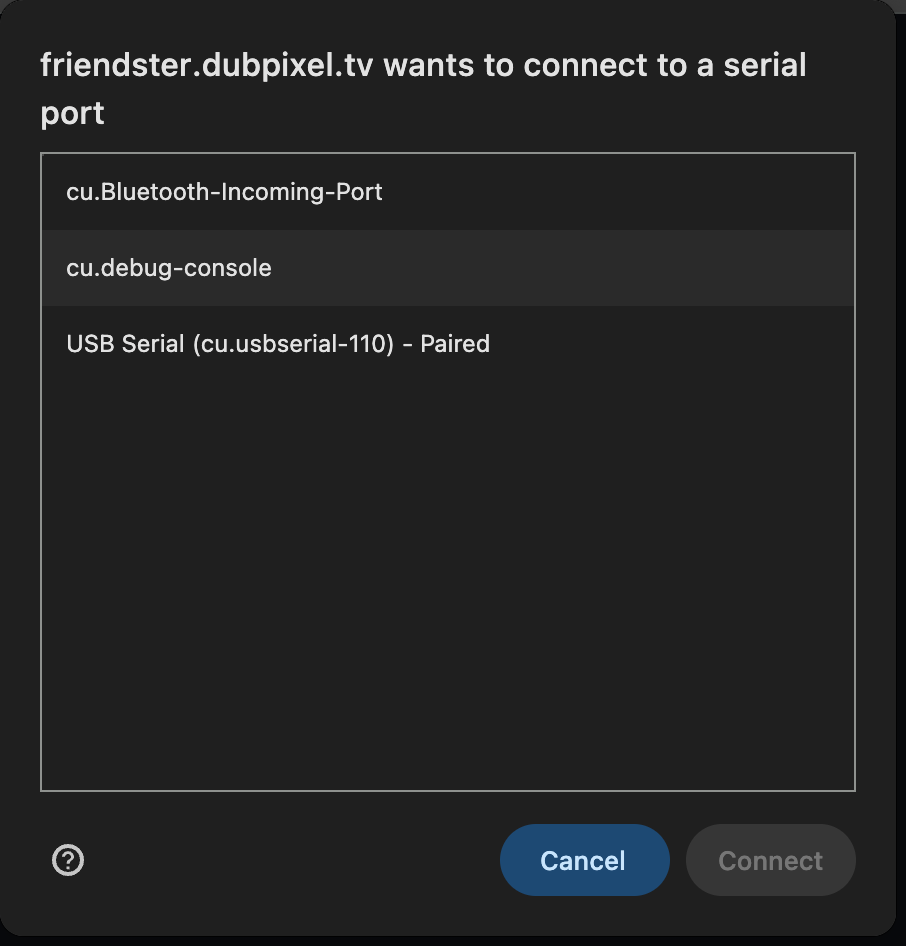
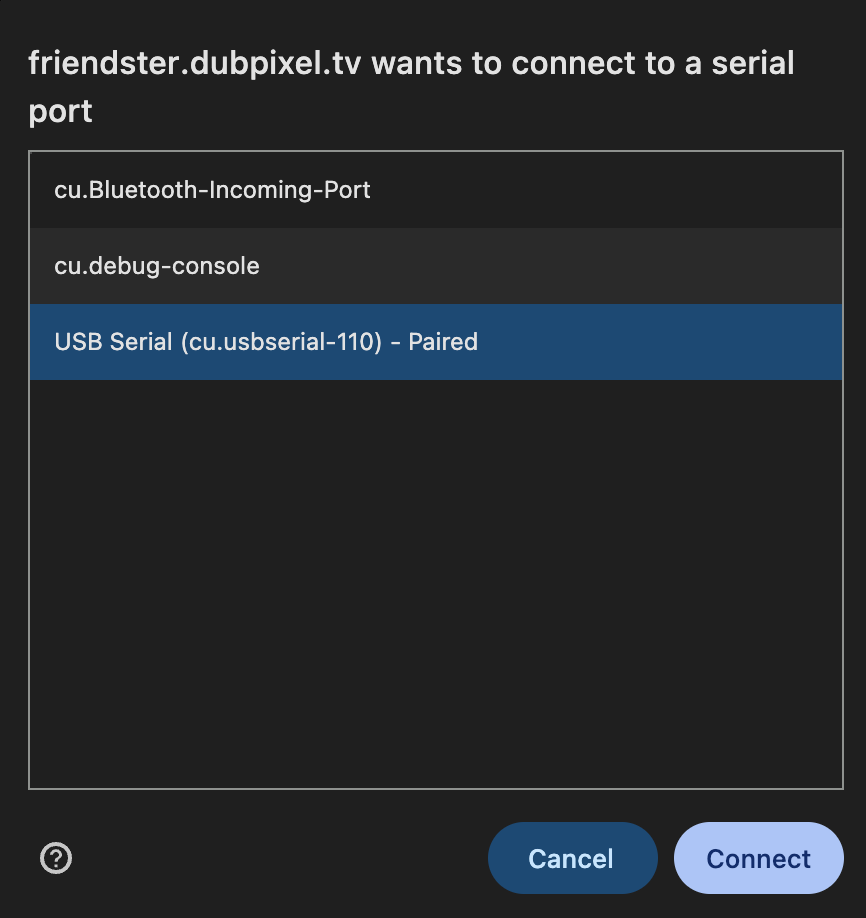
docs(site): swap in updated, clearer serial-port-picker screenshot
New version highlights the correct "USB Serial (Paired)" entry with an
active blue Connect button, instead of a neutral/ambiguous list.

Claude-Session: https://claude.ai/code/session_015Y2pN9hmXmszGHiTwhFz2u

Changed region(s): [[0.0312, 0.0305, 0.9977, 0.976], [0.0312, 0.8845, 0.0935, 0.9455], [0.9665, 0.0, 1.0, 0.0305]]

diff --git a/site/flash/visual/index.html b/site/flash/visual/index.html
@@ -210,7 +210,7 @@
       <div class="step-body">
         <h2>Pick the serial port</h2>
         <p>Your browser will list available ports. Look for one named after a USB-serial chip (e.g. <code>CP210x</code>, <code>CH340</code>) or marked <code>USB Serial</code> — not Bluetooth ports.</p>
-        <img class="shot" src="../../images/setup_tutorial/1-serial-port.png" alt="Browser serial port picker dialog listing available ports">
+        <img class="shot" src="../../images/setup_tutorial/1-serial-port.png" alt="Browser serial port picker dialog with the correct USB Serial (Paired) entry selected and Connect enabled">
       </div>
     </div>
 
